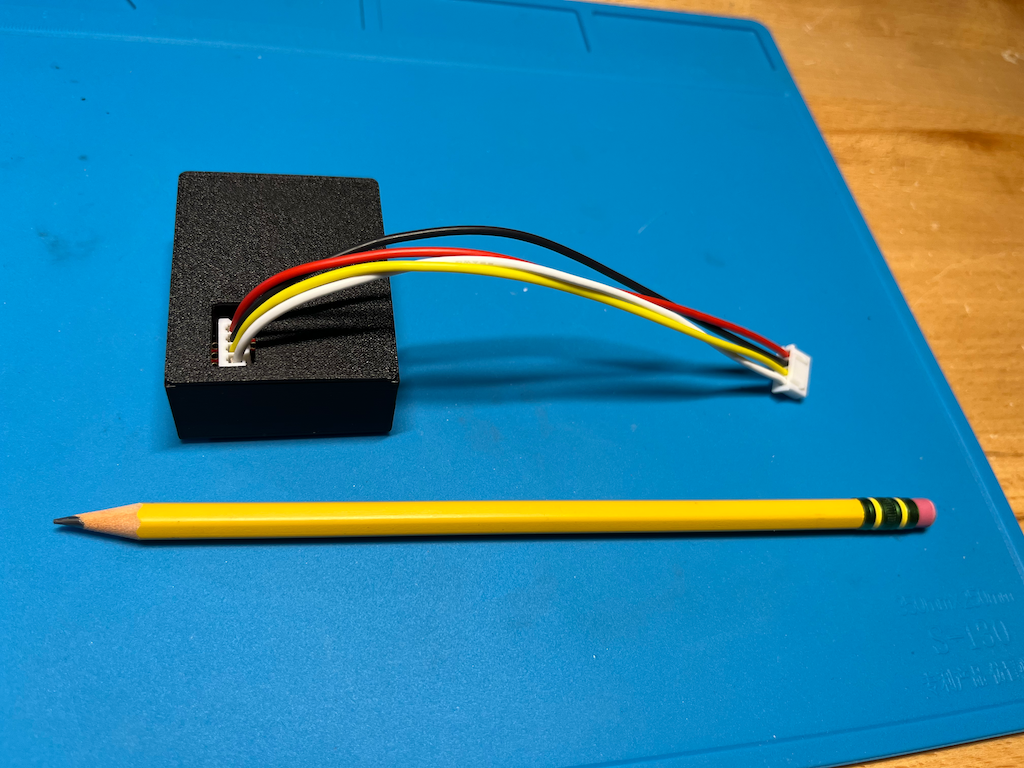
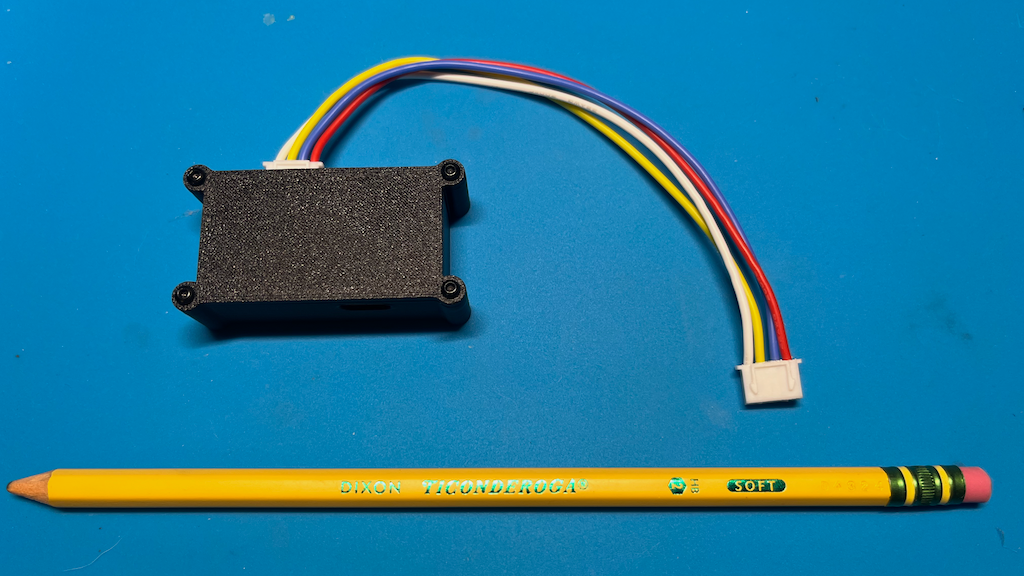
more work on the README

diff --git a/README.md b/README.md
@@ -19,32 +19,26 @@ All you need is a **dual-core ESP32** and a level shifter. A dual core is requir
 Recommended hardware:
 - [XIAO ESP32S3](https://www.amazon.com/dp/B0BYSB66S5)
 - [3.3V–5V Level Shifter](https://www.amazon.com/dp/B07F7W91LC)
-- [Mini PCB Prototype boards](https://www.amazon.com/dp/B081MSKJJX)
 
 I used the following connector kits, but you can get away with a single 4-pin male JST-XH connector:
 - [XH 2.54mm Connector Kit](https://www.amazon.com/dp/B08G18PWQ6)
-- [JST-XHP Connector Kit](https://www.amazon.com/dp/B07CTH46S7)
+- [2.54mm Connector 4 Pin Male Adapter Right Angle](https://www.amazon.com/dp/B0BMDQLR4Q)
 
-The assembled prototype & 3D printed enclosure:
+### PCB & Enclosure
 
-| Prototype | Enclosure |
-|---|---|
-| ![Prototype](images/prototype.png) | ![Enclosure](images/enclosure.png) |
+The KiCad project, schematic and orderable gerbers live in [pcb/](pcb/). 2-layer, 41.5 × 22 mm, 1.6 mm, four M2 mounting holes. You solder in the ODU connector, the level shifter module and the XIAO, and that's the whole build. The FreeCAD sources for the 3D-printable enclosure are located in [enclosure/](enclosure/).
+
+| PCB (top)  | PCB (bottom)  |
+| --- | --- |
+| ![Top](pcb/pcb-top.png) | ![Bottom](pcb/pcb-bottom.png) |
+
+| Assembled Prototype | Enclosure |
+| --- | --- |
+| ![Prototype](images/prototype.jpg) | ![Enclosure](images/enclosure.png) |
 
 
 I've added a jumper that ties the diagnostic port's +5V to the XIAO's 5V pin. Use the jumper to run the board straight off the ODU with no USB cable. Leave it off if the board is connected to USB. I also recommend the use of a USB isolator since ground on the diagnostic port is not referenced to earth.
 
-### PCB
-
-I've created a PCB to replace the perfboard. You solder in the ODU connector, the level shifter module and the XIAO, and that's the whole build. The KiCad project, schematic and orderable gerbers live in [pcb/](pcb/).
-
-| Top | Bottom |
-|---|---|
-| ![Top](pcb/pcb-top.png) | ![Bottom](pcb/pcb-bottom.png) |
-
-2-layer, 41.5 × 22 mm, 1.6 mm, ground plane on both sides, four M2 mounting holes.
-
-Disclaimer: The PCB has not been fabricated and verified yet.
 
 ## Safety
 
@@ -58,12 +52,18 @@ before performing the installation. Wear appropriate PPE. Consult a qualified el
 
 ## Installation
 
+*(See [Safety](#safety) first if you're jumping straight to this section.)*
+
 Remove the top panel of the ODU. You'll see the control board. Remove the screws securing the control board to the ODU, then detach the cables from the cable clamps so you can lift the board for access — there's no need to unplug the cables themselves. The diagnostic port is located at the front of the board. Plug in the dongle, with the red wire facing toward you. Reattach the cables to the cable clamps and secure the board back to the ODU. There should be enough clearance to tuck the dongle into the service panel — this lets you access the dongle later without needing to remove the control board again. Reinstall the top panel.
 
-|  |  |
+| Control board | Diagnostic port |
 | --- | --- |
-| ![Install 1/4](images/install-1.png)<br>Control board. | ![Install 2/4](images/install-2.png)<br>Diagnostic port. |
-| ![Install 3/4](images/install-3.png)<br>Dongle plugged in. | ![Install 4/4](images/install-4.png)<br>Dongle tucked into service panel. |
+| ![Install 1/4](images/install-1.png) | ![Install 2/4](images/install-2.png) |
+
+
+| Dongle plugged in | Dongle tucked into service panel |
+| --- | --- |
+| ![Install 3/4](images/install-3.png) | ![Install 4/4](images/install-4.png) |
 
 For a visual walkthrough, see [this installation video](https://www.youtube.com/watch?v=poEmSZnrnjs).
 
@@ -154,12 +154,15 @@ esphome run example_midea_telemetry.yaml
 
 ## First use
 
-Upon first start, the dongle brings up a WiFi hotspot so you can configure your WiFi settings. Join the `midea-telemetry-esphome` network (password `midea-telemetry-esphome`) and pick your network in the popup that appears. Once connected, the dongle serves a webserver at `http://midea-telemetry.local` (useful if you don't run Home Assistant), and Home Assistant automatically detects it as a new ESPHome device.
+Upon first start, the dongle brings up a WiFi hotspot so you can configure your WiFi settings. Join the `midea-telemetry-esphome` network (password `midea-telemetry-esphome`) and pick your home network and password in the popup that appears. Once connected, the dongle serves a webserver at `http://midea-telemetry.local` (useful if you don't run Home Assistant), and Home Assistant automatically detects it as a new ESPHome device.
 
-|  |  |
+| WiFi hotspot | WiFi setup |
 | --- | --- |
-| ![Hotspot](images/hotspot.png)<br>On first start the dongle brings up a Wi-Fi hotspot for configuration. | ![Wi-Fi settings](images/wifi-settings.png)<br>Join `midea-telemetry-esphome`; a popup asks which WiFi network to connect to. |
-| ![Webserver](images/webserver.png)<br>Reach the on-board webserver at `http://midea-telemetry.local`. | ![Device auto discovery](images/ha-auto-discovery.png)<br>Home Assistant auto-discovers the dongle as a new ESPHome device. |
+| ![Hotspot](images/hotspot.png) | ![Wi-Fi settings](images/wifi-settings.png) |
+
+| On-board webserver | Home Assistant auto-discovery |
+| --- | --- |
+| ![Webserver](images/webserver.png) | ![Device auto discovery](images/ha-auto-discovery.png) |
 
 ## Fields
 
@@ -196,7 +199,7 @@ L = ln((255 − b) / b)
 T = 1 / (2.873×10⁻³ + 2.491×10⁻⁴ · L + 9.74×10⁻⁷ · L³) − 273.15
 ```
 
-³ Two OEM encodings, told apart by range (a real set-point is ~16–32 °C): whole-degree (16–32) or half-degree +50 (82–114). 
+³ Two OEM encodings, told apart by range (a real set-point is ~16–32 °C): whole-degree (16–32) or half-degree +50 (82–114).
 
 `operating_mode` is a raw integer code (e.g. `0` = cooling, `3` = fan). Map it to text in Home Assistant with a template sensor.
 
@@ -223,7 +226,7 @@ The following outdoor unit models reportedly lack a diagnostic port, or their wi
 | Brand | Outdoor Model | Wiring Diagram |
 |---|---|---|
 | Pioneer | YN036GLFI19RPE | n/a |
-| Carrier | YN036GLFI19RPE | [SG-38MARB-02.pdf](https://www.shareddocs.com/hvac/docs/1009/Public/03/SG-38MARB-02.pdf) |
+| Carrier | 38MARBQ24AA3 | [SG-38MARB-02.pdf](https://www.shareddocs.com/hvac/docs/1009/Public/03/SG-38MARB-02.pdf) |
 
 I haven't had a chance to analyze the diagnostic bus on a multi-head unit yet. Supporting these units will likely require firmware enhancements beyond what's currently implemented.
 
